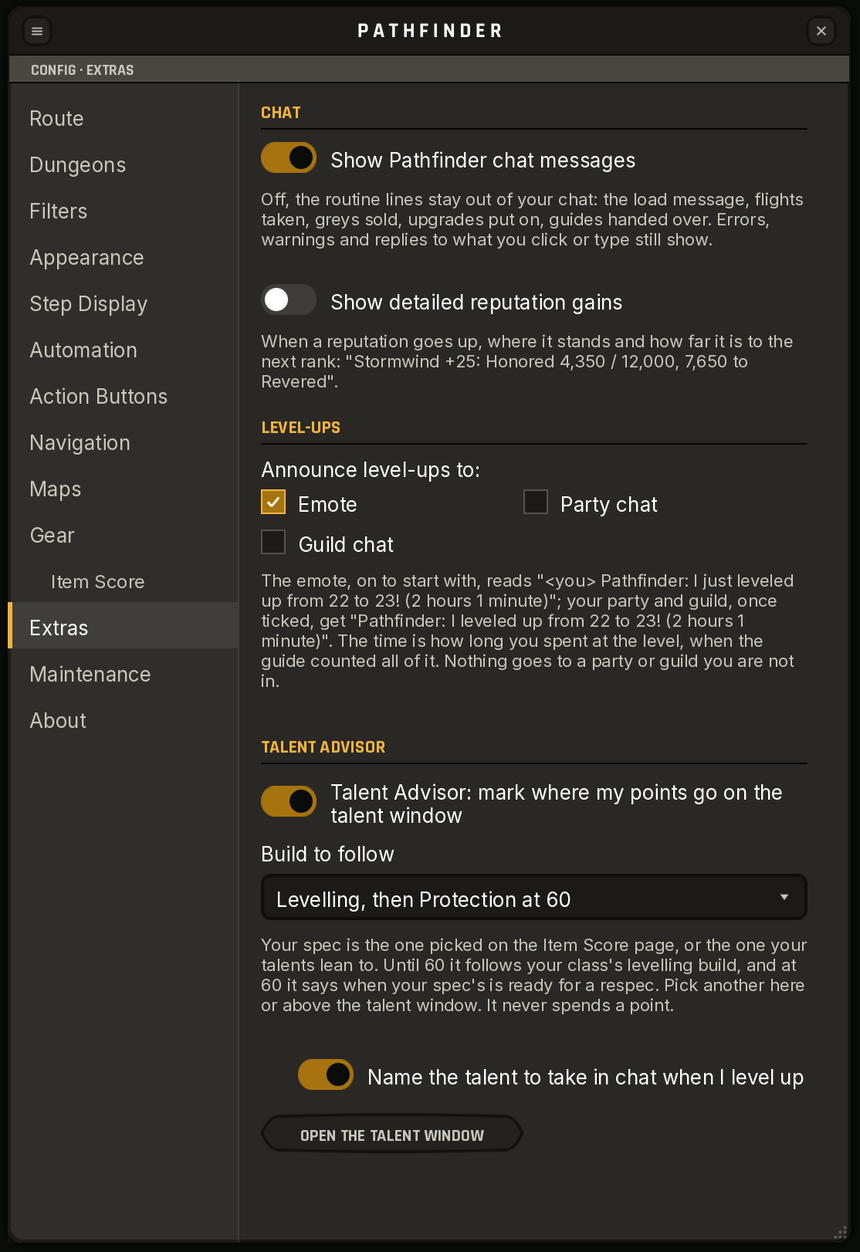
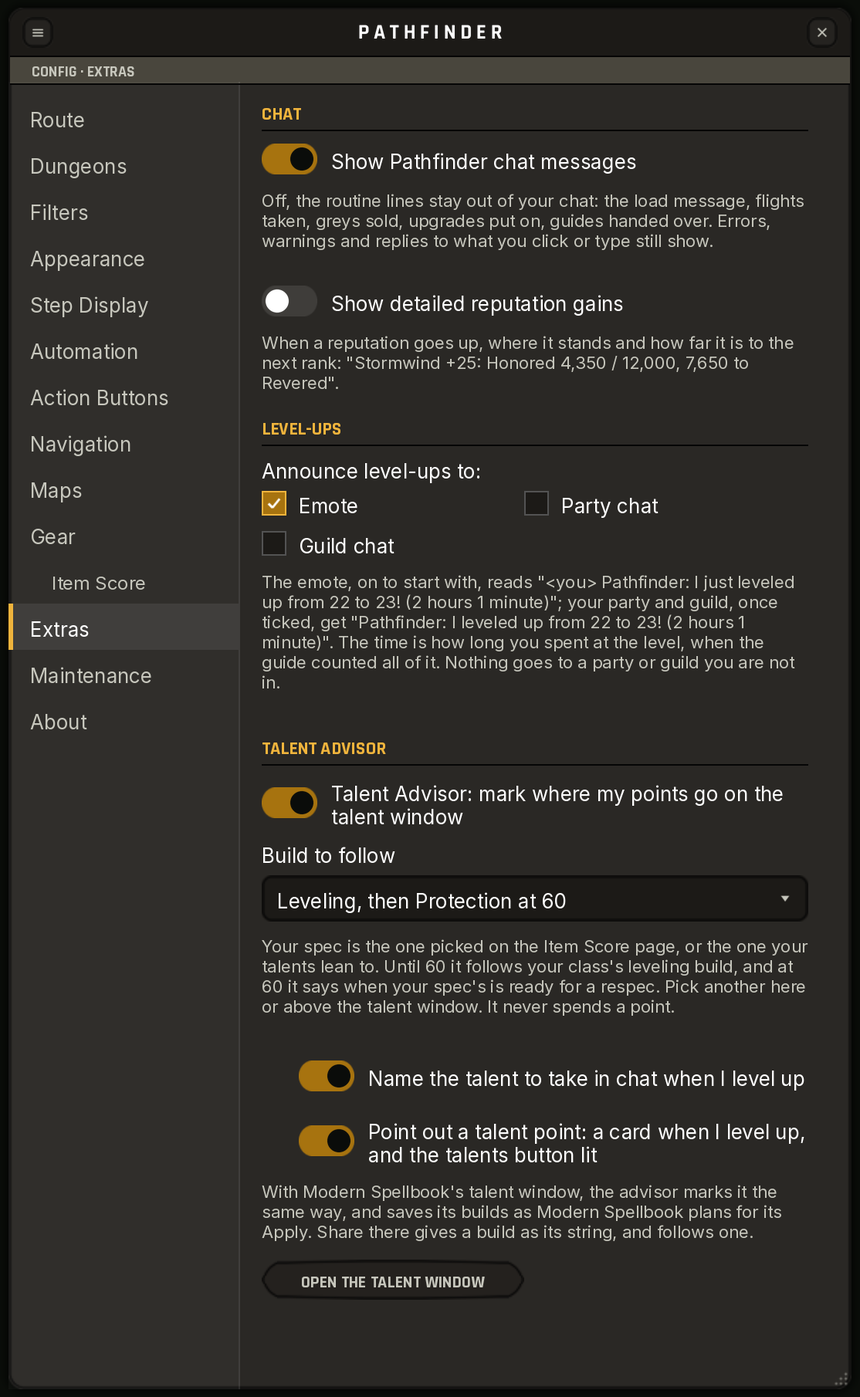
README: in-game pictures of the Talent Advisor and the attunement guides; TESTING for 0.22.24
- README: the Talent Advisor on Blizzard's window, with pfUI and on Modern
  Spellbook, from in-game screenshots, with its level-up card and Modern
  Spellbook's three buttons; the attunement guides' folder in the browser;
  travel steps and collapsed quest log zones under the guides. The pictures
  were taken on 0.22.23 and say what 0.22.24 changed since.
- The Extras options picture re-rendered: it now shows "Point out a talent
  point" and the Modern Spellbook note, and spells Leveling as the game does.
- TESTING: NEXT clear of the badge, Modern Spellbook's strip not cut short,
  Sword and Board carried over to Protection, and a note on the 0.22.23
  screenshots.

Claude-Session: https://claude.ai/code/session_01XiMjJedyYgiZAb2vbxvU5A

Changed region(s): [[0.0, 0.0, 0.9977, 0.9345], [0.8767, 0.5607, 0.907, 0.5919]]

diff --git a/README.md b/README.md
@@ -49,7 +49,7 @@ and feature ideas.
 
 ## Contents
 
-- [What it does](#what-it-does) — guides, arrow, filters, gear, professions
+- [What it does](#what-it-does) — guides, arrow, filters, gear, talents, professions
 - [Install](#install) · [Using it](#using-it)
 - [Something broken?](#something-broken) · [Contributing](#contributing)
 - [Credits](#credits) · [License](#license)
@@ -64,7 +64,10 @@ Every feature in full detail: **[docs/FEATURES.md](docs/FEATURES.md)**.
 
 1–60 for every race: **Optimized** (Joana's routes), **RestedXP** and **RXP
 Hardcore**. Steps tick themselves off as you accept, complete and turn in
-quests. Finish a guide and it offers the next — or one of your server's custom
+quests, and a travel step ("Travel to Westfall") as you get there, or as soon
+as you are on what comes after it. A quest under a zone you collapsed in the
+quest log still counts: the guide opens the zone again to see it. Finish a
+guide and it offers the next — or one of your server's custom
 zones, if one fits your level: Moonwhisper Coast, new in 1.18.1, included.
 
 **A guide browser like Zygor's.** Categories down the left (Leveling,
@@ -102,6 +105,12 @@ each, per side: Molten Core, Onyxia's Lair, Blackwing Lair, Naxxramas, Upper
 Blackrock Spire, Scholomance, Blackrock Depths, and Turtle WoW's Emerald
 Sanctum, Lower and Upper Karazhan and the Karazhan Crypts. The browser says
 which you're attuned to.
+
+<p align="center">
+  <img src="docs/images/guide-browser-attunements.png" width="720" alt="The guide browser in game, Dungeons, Attunements and keys: the raid attunements from Onyxia's Lair to Naxxramas, then the dungeon keys, each saying Raid or Dungeon, then RestedXP's Onyxia Attunement and Scholomance Key; Blackrock Depths: Shadowforge Key pointed at, with its loading screen, level and progress on the right"><br>
+  <sub>In game, on 0.22.23. Since 0.22.24 a row's words move aside for the star
+  and arrow that show over "Dungeon" here.</sub>
+</p>
 
 **First-time setup.** The first time you log in, three quick steps pick your
 guide, what it includes, and the dungeons you mean to run -- each with how
@@ -159,20 +168,40 @@ the guides of the dungeons you ticked are offered beside the next zone.
 
 ### 🌳 Talent Advisor
 
-On Blizzard's own talent window, each talent shows how many points the build
-puts there, and the talent your next point goes to glows, with a dot on its
-tree's tab. A strip above the window names the build and where the next point
-goes, and says when you have points elsewhere — it carries on from the
-closest point, never asks you to respec. Your class's levelling build to 60,
-then your spec's; or pick any of them — Protection for a Warrior or Paladin,
-Bear for a Druid. On a level up a card names the talent to take, and
-the talents button lights up until you spend the point. With
-[Modern Spellbook](https://github.com/lioryx/ModernSpellBook), its talent
-window is marked the same way, and the build saves as one of its plans for its
-Apply to learn, or shares as its build string — and a string someone shares
-with you can be followed. The builds are made on Turtle WoW's own trees, and each is
-checked against the tree your game has before it is followed. It never spends
-a point.
+Your class's levelling build to 60, then your spec's — or pick any of them:
+Protection for a Warrior or Paladin, Bear for a Druid. On Blizzard's own
+talent window each talent in the build has a badge with the build's points,
+and a tick once you have them; the talent your next point goes to has a gold
+ring with NEXT over it, and its tree's tab a gold dot. A strip on the window's
+top edge names the build and the next talent, and says when you have points
+elsewhere — it carries on from the closest point, never asks you to respec.
+With pfUI it sits on pfUI's frame.
+
+| Blizzard's talent window | With pfUI |
+| :---: | :---: |
+| <img src="docs/images/talent-window.jpg" width="340" alt="Blizzard's talent window in game for a Paladin, on Protection: the Pathfinder strip on its top edge with the build to follow and a card, Next: Shield Specialization, rank 1 of 3; the talents taken ticked, the rest with the build's points, Shield Specialization ringed in gold with NEXT over it, and a gold dot on the Protection tab"> | <img src="docs/images/talent-window-pfui.jpg" width="340" alt="The same talent window with pfUI's skin: the strip sits on pfUI's frame, with the same marks on the talents and the gold dot on the Protection tab"> |
+
+On a level up a card names the talent to take, and the talents button lights
+up until you spend the point.
+
+**With [Modern Spellbook](https://github.com/lioryx/ModernSpellBook)**, its
+talent window is marked the same way, with NEXT POINT HERE over the tree your
+point goes to, and the strip has three buttons. **Plan to my level** and
+**Whole build as a plan** save the build as one of its plans, for its Apply to
+learn. **Share** gives the build as its build string, and follows a string
+someone shares with you.
+
+<p align="center">
+  <img src="docs/images/talent-modern-spellbook.jpg" width="820" alt="Modern Spellbook's talent window in game for a Paladin, all three trees side by side: the Pathfinder strip across its top with the build to follow, the card naming Shield Specialization, and Plan to my level, Whole build as a plan and Share; NEXT POINT HERE beside Protection, the talents taken ticked, the rest with the build's points, and Shield Specialization ringed in gold with NEXT over it">
+</p>
+
+<p align="center"><sub>In game, on 0.22.23. Since 0.22.24 the shield build is
+called Protection ("Protection leveling, then Protection at 60"), the card's
+second line fits ("Rank 1 of 3 in Protection · at level 21"), and NEXT sits
+clear of the talent's badge.</sub></p>
+
+The builds are made on Turtle WoW's own trees, and each is checked against the
+tree your game has before it is followed. It never spends a point.
 
 ### ⚒ Professions
 
@@ -222,7 +251,7 @@ Resize it from the corner.
 
 | Maps | Extras |
 | :---: | :---: |
-| <img src="docs/images/options-maps.png" width="380" alt="Options, Maps page: revealing the world map, the step on the map, the ant trail and its style, and rare creatures near your level"> | <img src="docs/images/options-extras.png" width="380" alt="Options, Extras page: Pathfinder's chat messages, detailed reputation gains, level-up announcements, and the Talent Advisor: its switch, the build to follow and the talent named in chat"> |
+| <img src="docs/images/options-maps.png" width="380" alt="Options, Maps page: revealing the world map, the step on the map, the ant trail and its style, and rare creatures near your level"> | <img src="docs/images/options-extras.png" width="380" alt="Options, Extras page: Pathfinder's chat messages, detailed reputation gains, level-up announcements, and the Talent Advisor: its switch, the build to follow, the talent named in chat, the card and lit talents button on a level up, and a note on Modern Spellbook"> |
 
 | Gear |
 | :---: |

diff --git a/docs/TESTING.md b/docs/TESTING.md
@@ -13,6 +13,9 @@ what the **Error log** says (Options → Maintenance).
 
 Passed so far: the 2026-09-28 pass (sections 1–11 as they were then; party
 sharing only lightly) and the Gear Finder tab at 0.22.1 (2026-10-01).
+Screenshots at 0.22.23 (2026-10-03) showed the talent strips and marks on
+Blizzard's window, with pfUI and on Modern Spellbook (the README's pictures);
+0.22.24 tidied what they showed, so those items wait for a look on 0.22.24.
 
 Start with a **full client restart** (not `/reload`): new textures and files
 are only found at startup.
@@ -223,8 +226,9 @@ are only found at startup.
 - [ ] The talent window opens on the tree your next point goes to. Each of its
       talents in the build has a badge with the build's points: green while
       some are to take, a tick once you have them; the next one has a gold
-      ring with NEXT over it, and its tab a gold dot and light. Click another
-      tab: its talents are marked, no ring, the tab stays lit.
+      ring with NEXT over it, clear of the badge on its top right, and its tab
+      a gold dot and light. Click another tab: its talents are marked, no
+      ring, the tab stays lit.
 - [ ] The strip above the window: PATHFINDER, *Following* and the build on one
       row; under it a card with the talent's icon in gold, "Take <talent>" and
       "Rank r of n in <tree> · 1 point to spend" ("Next: <talent>" and "… at
@@ -238,10 +242,12 @@ are only found at startup.
       spent. Neither with *Point out a talent point* off.
 - [ ] **With Modern Spellbook** (and `/msb talents` on): open the talents. A
       strip over its window: PATHFINDER, *Following*, the card, and *Plan to my
-      level*, *Whole build as a plan*, *Share*. Every tree's talents have their
-      badges, the next one the gold ring and NEXT, and its tree "NEXT POINT
-      HERE" by its name. Expand a tree: its talents are marked too. Switch it
-      to a plan: the marks go, the strip stays.
+      level*, *Whole build as a plan*, *Share*. The menu and the card's two
+      lines are not cut short, and the card reaches the buttons. Every tree's
+      talents have their badges, the next one the gold ring and NEXT (clear of
+      its badge), and its tree "NEXT POINT HERE" by its name. Expand a tree:
+      its talents are marked too. Switch it to a plan: the marks go, the strip
+      stays.
 - [ ] Modern Spellbook: *Plan to my level* -- chat says "Saved "Pathfinder: …
       to <level>" in Modern Spellbook's plans: N points"; its window shows the
       plan, its list has it, and its *Apply* learns the points. *Whole build as
@@ -263,7 +269,9 @@ are only found at startup.
 - [ ] Warrior or Paladin: the menu has "Protection leveling, then <spec> at
       60" and "<Class> Protection leveling"; a Druid "Bear leveling, then …" and
       "Druid Bear leveling". Picking one marks Protection's (or Feral's)
-      talents from 10.
+      talents from 10. A character that followed Sword and Board on 0.22.23
+      follows Protection on 0.22.24 with nothing to pick, and its Modern
+      Spellbook plan is "Pathfinder: Protection leveling to <level>".
 - [ ] Switch the Talent Advisor off: the window has no strip, badges or glow,
       and the tooltip no line, at once. On again: back.
 - [ ] Level up (10+): "Level N: a talent point to spend. Take <talent> (rank r
